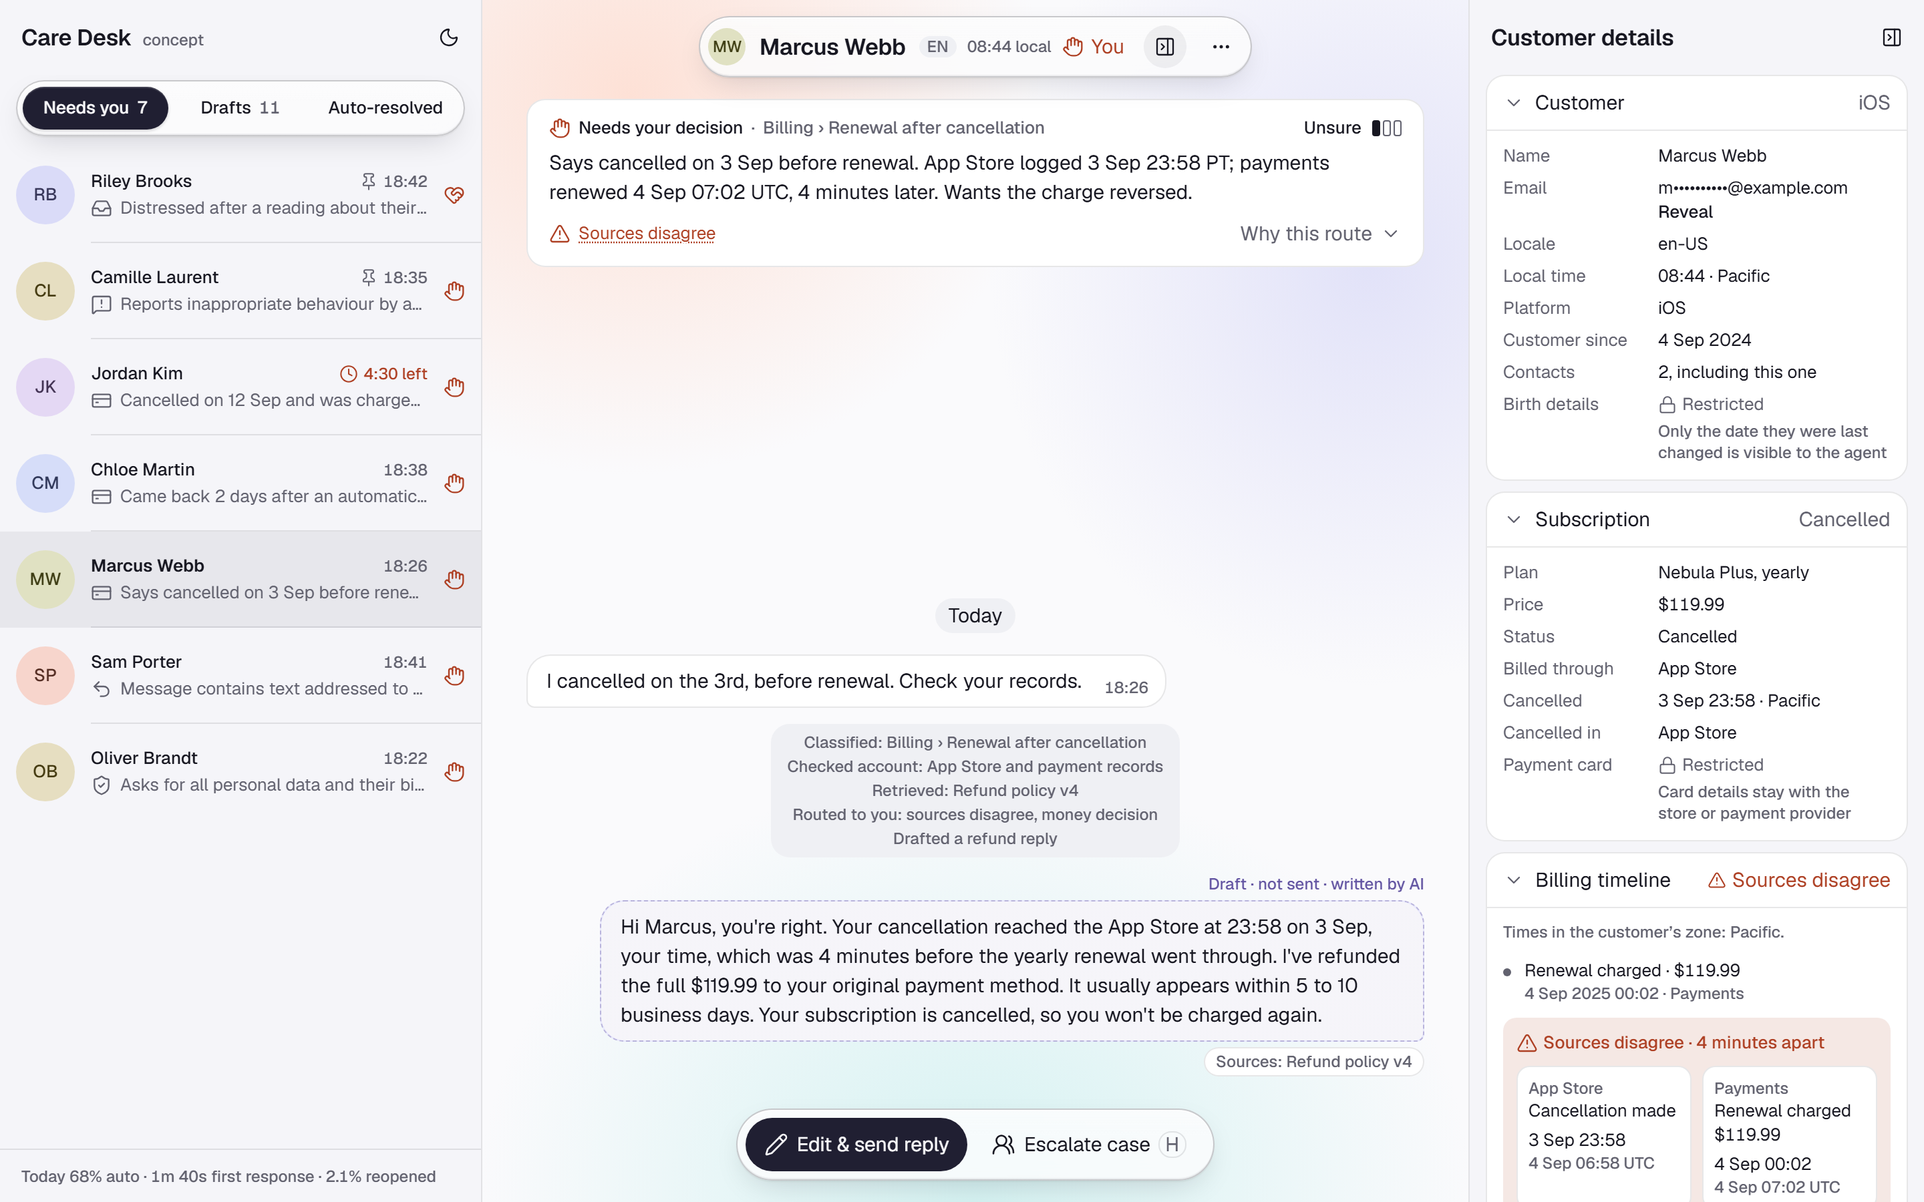
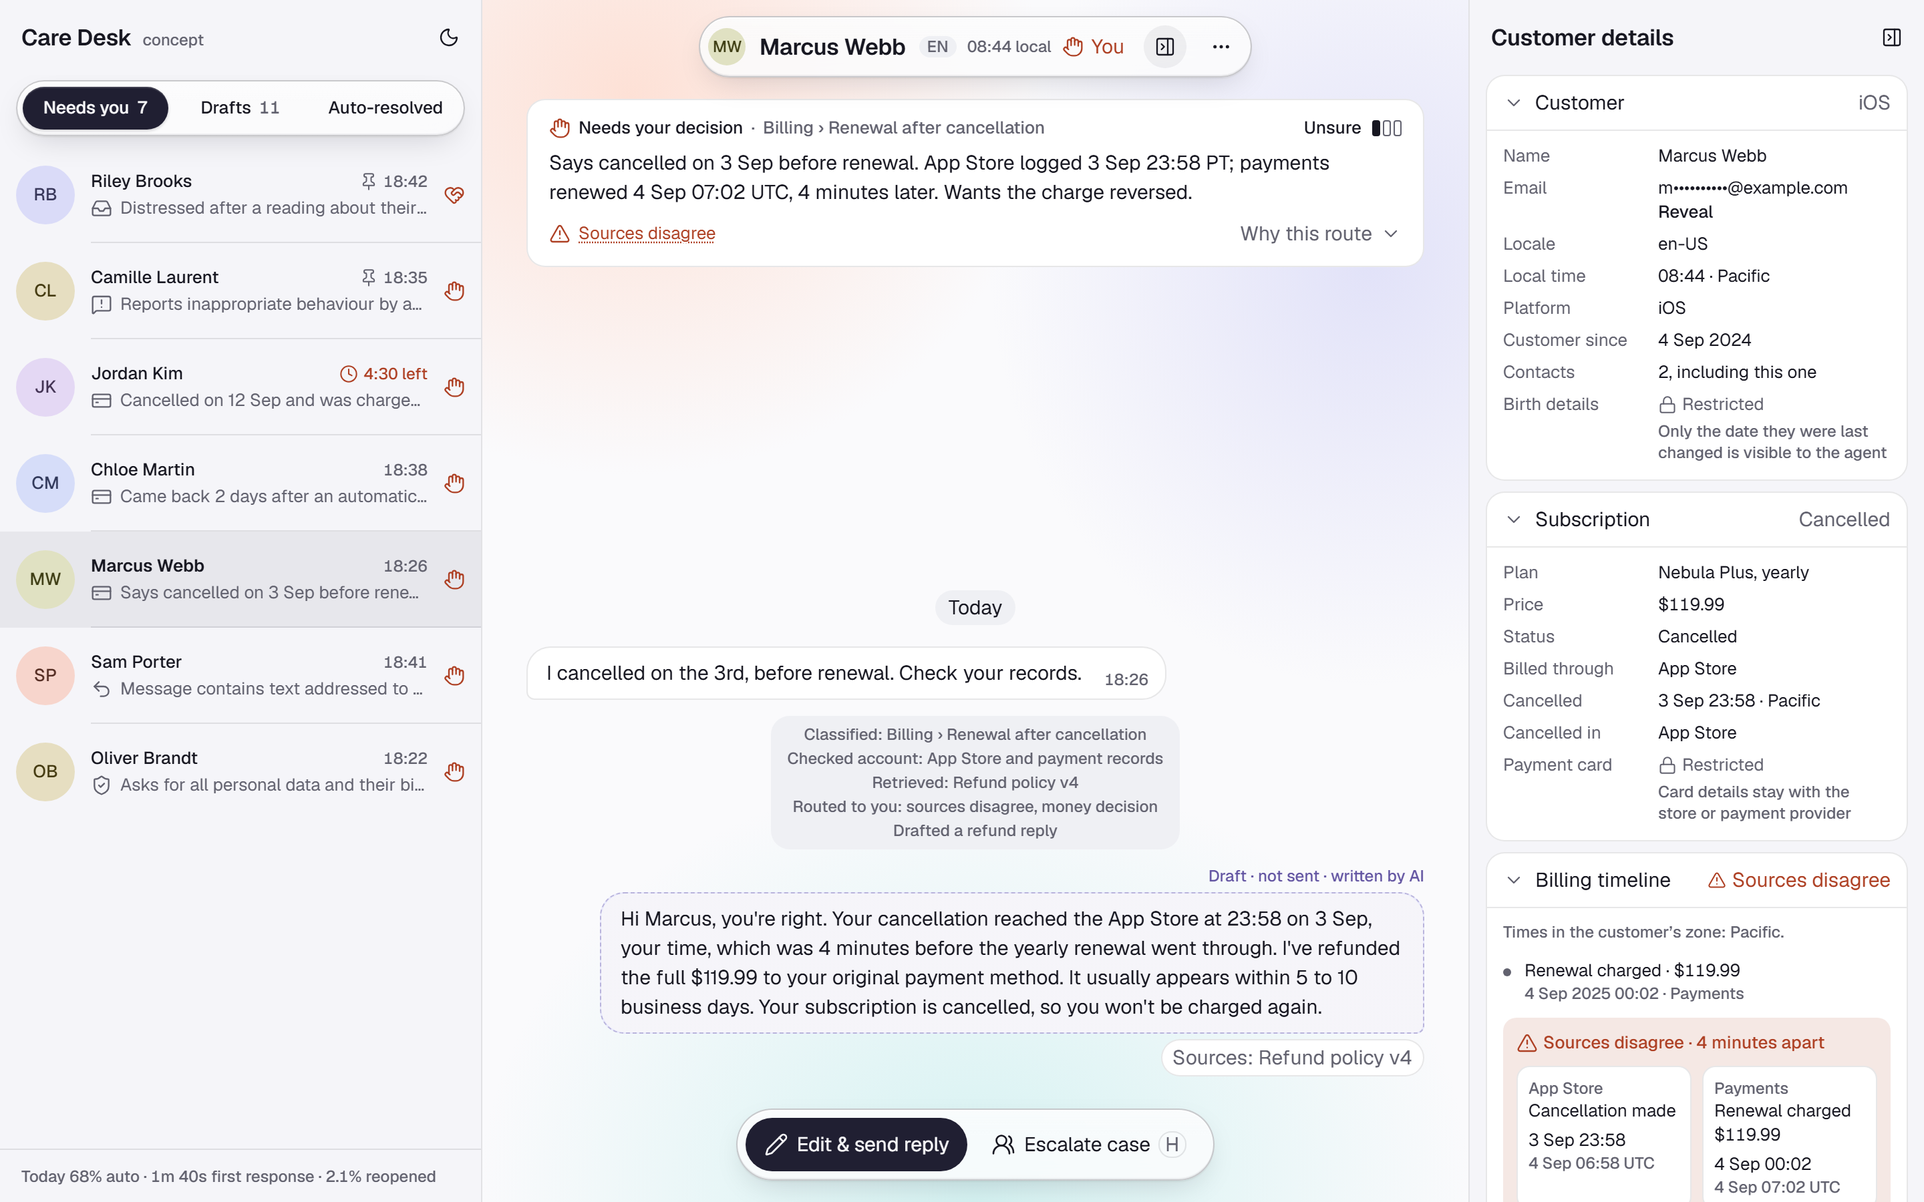
Fix step 6 bugs: focus, replayed flashes, panel scroll, sheet width
- A panel row request is handled once, so hiding and showing the panel no longer replays the flash or steals focus
- The panel is keyed by conversation and opens at the top
- Reveal moves focus to the revealed email; hiding the panel hands focus to the header toggle
- ] closes the customer details sheet it opened
- The sheet is min(22rem, 100vw) wide on phones
- The dialog backdrop drops its named black and blur
- The Sources chip under drafts opens its source in the panel

Changed region(s): [[0.3125, 0.7156, 0.75, 0.9022], [0.2812, 0.56, 0.5938, 0.7156], [0.5, 0.4978, 0.5312, 0.5289]]

diff --git a/components/context/ContextPanel.tsx b/components/context/ContextPanel.tsx
@@ -1,7 +1,7 @@
 "use client";
 
 import { ChevronRight, FileText, Lock, PanelRightClose, RotateCcw, TriangleAlert } from "lucide-react";
-import { useEffect, useRef, type ReactNode } from "react";
+import { useEffect, useLayoutEffect, useRef, type ReactNode } from "react";
 import { Button } from "@/components/controls/Button";
 import { useDesk } from "@/components/desk/desk-store";
 import { RouteGlyph, type RouteGlyphKind } from "@/components/inbox/RouteGlyph";
@@ -36,23 +36,43 @@ const ROUTE_KIND: Record<Route, RouteGlyphKind> = { auto_send: "auto", approve_d
  * exists and is out of the agent's reach is part of trusting what it did read.
  */
 export function ContextPanel({ ticket, onClose }: { ticket: Ticket; onClose: () => void }) {
-  const { state } = useDesk();
+  const { state, dispatch } = useDesk();
+  const root = useRef<HTMLElement>(null);
   const body = useRef<HTMLDivElement>(null);
   const focus = state.contextFocus;
 
-  // A citation or flag elsewhere asked for a row: bring it into view and move focus to it.
+  /*
+   * A citation or flag elsewhere asked for a row: move focus to it, bring it into view, and flash an
+   * ink wash that fades over 600 ms with ease-in, so it holds near full strength before it goes. Then
+   * the request is marked done, so showing the panel again later does not replay it. Under reduced
+   * motion there is no flash; the focus ring marks the row.
+   */
   useEffect(() => {
     if (!focus) return;
     const row = body.current?.querySelector<HTMLElement>(`[data-context-target="${CSS.escape(focus.target)}"]`);
-    if (!row) return;
-    const reduced = window.matchMedia("(prefers-reduced-motion: reduce)").matches;
-    // Focus first: in Chromium a focus call after a smooth scroll starts cancels the scroll.
-    row.focus({ preventScroll: true });
-    row.scrollIntoView({ block: "nearest", behavior: reduced ? "auto" : "smooth" });
-  }, [focus]);
+    if (row) {
+      const reduced = window.matchMedia("(prefers-reduced-motion: reduce)").matches;
+      // Focus first: in Chromium a focus call after a smooth scroll starts cancels the scroll.
+      row.focus({ preventScroll: true });
+      row.scrollIntoView({ block: "nearest", behavior: reduced ? "auto" : "smooth" });
+      if (!reduced) {
+        row.querySelector("[data-flash]")?.animate([{ opacity: 1 }, { opacity: 0 }], { duration: 600, easing: "ease-in" });
+      }
+    }
+    dispatch({ type: "contextFocusDone", nonce: focus.nonce });
+  }, [focus, dispatch]);
+
+  // Hiding the panel with focus inside it hands focus to the header button that shows it again.
+  // A layout cleanup runs while the panel is still in the document, so the check still sees focus.
+  useLayoutEffect(() => {
+    const panel = root.current;
+    return () => {
+      if (panel?.contains(document.activeElement)) document.querySelector<HTMLElement>("[data-context-toggle]")?.focus();
+    };
+  }, []);
 
   return (
-    <aside aria-label="Customer details" data-context-panel className="flex h-full min-h-0 flex-col bg-sidebar">
+    <aside ref={root} aria-label="Customer details" data-context-panel className="flex h-full min-h-0 flex-col bg-sidebar">
       <header className="flex h-14 shrink-0 items-center gap-2 pr-2 pl-4">
         <h2 className="min-w-0 flex-1 truncate text-title">Customer details</h2>
         <Button
@@ -92,10 +112,11 @@ export function ContextSheet({
       <SheetContent
         side="right"
         showCloseButton={false}
+        data-context-sheet
         aria-label={`Details for ${ticket.customer.name}`}
-        className="w-[min(22rem,100vw)] gap-0 border-border p-0 sm:max-w-none"
+        className="gap-0 border-border p-0 data-[side=right]:w-[min(22rem,100vw)] data-[side=right]:sm:max-w-none"
       >
-        <ContextPanel ticket={ticket} onClose={() => onOpenChange(false)} />
+        <ContextPanel key={ticket.id} ticket={ticket} onClose={() => onOpenChange(false)} />
       </SheetContent>
     </Sheet>
   );
@@ -167,13 +188,8 @@ function RestrictedFields({ ticket, section }: { ticket: Ticket; section: Contex
     ));
 }
 
-/**
- * A row a citation can point at. It flashes an ink wash for 600 ms when asked for; under reduced motion
- * it takes focus with the ring and no flash.
- */
+/** A row a citation can point at. The panel moves focus to it and animates its wash when asked for. */
 function Target({ id, className, children }: { id: string; className?: string; children: ReactNode }) {
-  const { state } = useDesk();
-  const focus = state.contextFocus?.target === id ? state.contextFocus : null;
   return (
     <li
       data-context-target={id}
@@ -183,13 +199,7 @@ function Target({ id, className, children }: { id: string; className?: string; c
         className,
       )}
     >
-      {focus && (
-        <span
-          key={focus.nonce}
-          aria-hidden
-          className="pointer-events-none absolute inset-0 rounded-[inherit] bg-foreground/10 motion-safe:animate-context-flash motion-reduce:hidden"
-        />
-      )}
+      <span data-flash aria-hidden className="pointer-events-none absolute inset-0 rounded-[inherit] bg-foreground/10 opacity-0" />
       {children}
     </li>
   );
@@ -200,6 +210,15 @@ function CustomerSection({ ticket }: { ticket: Ticket }) {
   const now = useDemoNow();
   const { customer } = ticket;
   const revealedAt = state.revealedEmails[ticket.id];
+  const email = useRef<HTMLSpanElement>(null);
+  const revealing = useRef(false);
+
+  // Reveal removes its own button, so focus moves to the address it revealed.
+  useEffect(() => {
+    if (!revealedAt || !revealing.current) return;
+    revealing.current = false;
+    email.current?.focus();
+  }, [revealedAt]);
 
   return (
     <Section id="customer" title="Customer" status={{ text: PLATFORM_LABEL[customer.platform], risk: false }}>
@@ -208,7 +227,13 @@ function CustomerSection({ ticket }: { ticket: Ticket }) {
         <Field label="Email">
           {revealedAt ? (
             <>
-              <span className="break-all">{customer.email}</span>
+              <span
+                ref={email}
+                tabIndex={-1}
+                className="rounded-xs break-all outline-none focus-visible:outline-2 focus-visible:outline-offset-2 focus-visible:outline-solid focus-visible:outline-ring"
+              >
+                {customer.email}
+              </span>
               <span className="block text-micro text-muted-foreground">
                 Revealed by you at {formatClockTime(revealedAt)}, logged in the thread
               </span>
@@ -219,7 +244,10 @@ function CustomerSection({ ticket }: { ticket: Ticket }) {
               <Button
                 variant="text"
                 aria-label={`Reveal ${customer.name}'s email address. The reveal is logged.`}
-                onClick={() => dispatch({ type: "revealEmail", id: ticket.id, now: readDemoNow() })}
+                onClick={() => {
+                  revealing.current = true;
+                  dispatch({ type: "revealEmail", id: ticket.id, now: readDemoNow() });
+                }}
               >
                 Reveal
               </Button>

diff --git a/components/thread/ReplyBubble.tsx b/components/thread/ReplyBubble.tsx
@@ -9,7 +9,15 @@ import { Translation } from "./Bubble";
 import { Button } from "@/components/controls/Button";
 
 type ReplyBubbleProps = { showTranslation: boolean } & (
-  | { kind: "draft"; draft: TimelineDraft; variantCount: number; sources: Source[]; showSources: boolean }
+  | {
+      kind: "draft";
+      draft: TimelineDraft;
+      variantCount: number;
+      sources: Source[];
+      showSources: boolean;
+      /** Opens the source's row in the context panel. */
+      onShowSources: (sourceId: string) => void;
+    }
   | { kind: "reply"; reply: TimelineReply; gloss?: string; undoUntil?: number; onUndo: () => void; onRetry: () => void }
 );
 
@@ -66,7 +74,7 @@ export function ReplyBubble(props: ReplyBubbleProps) {
           </div>
         )}
       </div>
-      {!sent && props.showSources && <SourcesChip sources={props.sources} />}
+      {!sent && props.showSources && <SourcesChip sources={props.sources} onShow={props.onShowSources} />}
     </li>
   );
 }
@@ -141,16 +149,28 @@ function Ticks({ delivered }: { delivered: boolean }) {
   );
 }
 
-/** What the draft rests on. An outdated source is flagged here, next to the text it shaped. */
-function SourcesChip({ sources }: { sources: Source[] }) {
+/**
+ * What the draft rests on. An outdated source is flagged here, next to the text it shaped. With sources,
+ * the chip links to them in the context panel, the outdated one first.
+ */
+function SourcesChip({ sources, onShow }: { sources: Source[]; onShow: (sourceId: string) => void }) {
   const stale = sources.filter((s) => s.supersededBy);
   const names = sources.map((s) => `${s.title} ${s.version}`).join(", ");
+  const chip =
+    "inline-flex max-w-full items-center gap-1 rounded-full border border-border bg-card px-2 py-0.5 text-micro text-muted-foreground";
+
+  if (sources.length === 0) return <p className={chip}>No help article or policy used</p>;
 
   return (
-    <p className="inline-flex max-w-full items-center gap-1 rounded-full border border-border bg-card px-2 py-0.5 text-micro text-muted-foreground">
-      {stale.length > 0 && <TriangleAlert aria-hidden className="size-3.5 shrink-0 text-risk-high" strokeWidth={1.75} />}
-      <span className="truncate">{sources.length > 0 ? `Sources: ${names}` : "No help article or policy used"}</span>
+    <Button
+      variant="outline"
+      title="Show in Sources used"
+      onClick={() => onShow((stale[0] ?? sources[0]).id)}
+      className={`${chip} h-auto font-normal [&_svg]:size-3.5`}
+    >
+      {stale.length > 0 && <TriangleAlert aria-hidden className="shrink-0 text-risk-high" strokeWidth={1.75} />}
+      <span className="truncate">Sources: {names}</span>
       {stale.length > 0 && <span className="shrink-0 text-risk-high">· outdated</span>}
-    </p>
+    </Button>
   );
 }

diff --git a/components/desk/desk-store.ts b/components/desk/desk-store.ts
@@ -153,6 +153,7 @@ export type DeskAction =
   | { type: "setContextOpen"; open: boolean }
   | { type: "toggleSection"; section: ContextSection }
   | { type: "focusContext"; section: ContextSection; target: string }
+  | { type: "contextFocusDone"; nonce: number }
   | { type: "revealEmail"; id: string; now: number };
 
 /** Tickets out of every lane right now: snoozed, marked spam, escalated, or answered from an open lane. */
@@ -735,6 +736,9 @@ function reduce(state: DeskState, action: DeskAction): DeskState {
       };
     }
 
+    case "contextFocusDone":
+      return state.contextFocus?.nonce === action.nonce ? { ...state, contextFocus: null } : state;
+
     // Revealing is logged once, at the first reveal, as a service message in the thread (brief 7.5).
     case "revealEmail":
       if (state.revealedEmails[action.id]) return state;
@@ -747,7 +751,9 @@ export function deskReducer(state: DeskState, action: DeskAction): DeskState {
   if (next.openId === state.openId) return next;
   // The Escalate popover and decision feedback belong to the conversation they were raised on.
   const staleBarNotice = next.notice?.where === "bar" && next.notice === state.notice;
-  return { ...next, escalateOpen: false, notice: staleBarNotice ? null : next.notice };
+  // A request to show a panel row was raised for the conversation that was open.
+  const contextFocus = next.contextFocus === state.contextFocus ? null : next.contextFocus;
+  return { ...next, escalateOpen: false, notice: staleBarNotice ? null : next.notice, contextFocus };
 }
 
 export const DeskContext = createContext<{ state: DeskState; dispatch: Dispatch<DeskAction> } | null>(null);

diff --git a/lib/shortcuts.ts b/lib/shortcuts.ts
@@ -47,10 +47,14 @@ export function commandFor(event: KeyboardEvent): Command | null {
   if (event.defaultPrevented || event.isComposing) return null;
   if (event.ctrlKey || event.metaKey || event.altKey) return null;
   if (isEditable(event.target)) return null;
-  // An open menu or dialog owns the keyboard: J there is typeahead, not "next conversation".
-  if (event.target instanceof Element && event.target.closest("[role=menu], [role=dialog]")) return null;
   const key = event.key.toLowerCase();
-  return KEYMAP.find((b) => b.key === key && Boolean(b.shift) === event.shiftKey)?.command ?? null;
+  const command = KEYMAP.find((b) => b.key === key && Boolean(b.shift) === event.shiftKey)?.command ?? null;
+  // An open menu or dialog owns the keyboard: J there is typeahead, not "next conversation". The one
+  // exception is ] inside the customer details sheet, which closes it the way it opened it.
+  if (event.target instanceof Element && event.target.closest("[role=menu], [role=dialog]")) {
+    return command === "toggle-context" && event.target.closest("[data-context-sheet]") ? command : null;
+  }
+  return command;
 }
 
 /**

diff --git a/components/desk/desk-store.test.ts b/components/desk/desk-store.test.ts
@@ -319,3 +319,21 @@ describe("context panel", () => {
     expect(logged).toEqual([{ at: new Date(now).toISOString(), text: "Email address revealed by you" }]);
   });
 });
+
+describe("context panel requests", () => {
+  it("clears a row request once the panel has handled it, so showing the panel again does not replay it", () => {
+    const asked = deskReducer(start("t04", "needs_you"), { type: "focusContext", section: "billing", target: "billing-conflict" });
+    const nonce = asked.contextFocus?.nonce ?? -1;
+    expect(deskReducer(asked, { type: "contextFocusDone", nonce: nonce + 1 }).contextFocus).not.toBeNull();
+    expect(deskReducer(asked, { type: "contextFocusDone", nonce }).contextFocus).toBeNull();
+  });
+
+  it("drops a row request when another conversation opens", () => {
+    const state = run(
+      start("t04", "needs_you"),
+      { type: "focusContext", section: "billing", target: "billing-conflict" },
+      { type: "activate", id: "t02" },
+    );
+    expect(state.contextFocus).toBeNull();
+  });
+});

diff --git a/app/globals.css b/app/globals.css
@@ -404,23 +404,6 @@
   }
 }
 
-/* Context panel (brief 7.5): a source citation or an evidence flag scrolls its panel row into view,
-   and the row flashes an ink wash that fades over 600 ms. ease-in holds the wash near full strength
-   before it fades, so the eye finds the row; an ease-out curve dropped it to 1% within 150 ms. Under
-   reduced motion there is no flash; the row takes focus instead, which draws the ring. */
-@theme {
-  --animate-context-flash: context-flash 600ms var(--ease-in) both;
-
-  @keyframes context-flash {
-    from {
-      opacity: 1;
-    }
-    to {
-      opacity: 0;
-    }
-  }
-}
-
 /* Draft fill: the violet wash composited over card, so the bubble is opaque. Its text then measures
    the same over every wallpaper field, and the draft reads near-white beside the tinted sent bubble. */
 @utility draft-fill {

diff --git a/components/desk/Desk.tsx b/components/desk/Desk.tsx
@@ -140,7 +140,8 @@ export function Desk({ initial }: { initial: DeskInit }) {
                 maxSize={420}
                 groupResizeBehavior="preserve-pixel-size"
               >
-                <ContextPanel ticket={openTicket} onClose={() => setContextOpen(false)} />
+                {/* Keyed by ticket, so each conversation's details open scrolled to the top. */}
+                <ContextPanel key={openTicket.id} ticket={openTicket} onClose={() => setContextOpen(false)} />
               </ResizablePanel>
             </>
           )}

diff --git a/components/ui/dialog.tsx b/components/ui/dialog.tsx
@@ -31,7 +31,7 @@ function DialogOverlay({
     <DialogPrimitive.Backdrop
       data-slot="dialog-overlay"
       className={cn(
-        "fixed inset-0 isolate z-50 bg-black/10 duration-100 supports-backdrop-filter:backdrop-blur-xs data-open:animate-in data-open:fade-in-0 data-closed:animate-out data-closed:fade-out-0",
+        "fixed inset-0 isolate z-50 bg-foreground/10 duration-100 data-open:animate-in data-open:fade-in-0 data-closed:animate-out data-closed:fade-out-0",
         className
       )}
       {...props}

diff --git a/components/thread/ThreadPane.tsx b/components/thread/ThreadPane.tsx
@@ -155,6 +155,7 @@ function Timeline({ ticket, overlay, showTranslation }: { ticket: Ticket; overla
             variantCount={item.variantCount}
             sources={triage.sources}
             showSources={item.key === lastDraftKey}
+            onShowSources={(id) => dispatch({ type: "focusContext", section: "sources", target: `source:${id}` })}
             showTranslation={showTranslation}
           />
         );

diff --git a/components/thread/ThreadHeader.tsx b/components/thread/ThreadHeader.tsx
@@ -58,6 +58,7 @@ function ContextToggle() {
   return (
     <Button
       iconOnly
+      data-context-toggle
       aria-pressed={open}
       aria-keyshortcuts="]"
       aria-label="Customer details"

diff --git a/docs/rationale.md b/docs/rationale.md
@@ -456,3 +456,35 @@ Reasoning   Brief 9.2 ties hints to room on screen; the thread's own width is th
 Trade-off   At 1280 to 1339 px with the panel open, hints are hidden; aria-keyshortcuts and the ? sheet in step 7 still name every key.
 Validation  panel-fits-every-ticket-1280: 22 tickets, no problems; inbox-t04-panel-2x at 1440: hints shown; step 5 bar-fits sweeps at 1440 and 900 still clean.
 ```
+
+## Step 6 fixes
+
+### A panel row request is handled once
+
+```
+Problem     Following a citation left the request in state, so hiding and showing the panel replayed the flash and pulled keyboard focus back into the row; each conversation's details also opened at the previous one's scroll position.
+Decision    The panel marks a request done after it moves focus and flashes the row; opening another conversation drops any request. The panel is keyed by conversation, so it opens at the top. The flash is a Web Animation on a wash that is always present, so nothing re-renders to run it.
+Reasoning   Focus moves only in answer to an action (WCAG 3.2.1); a replayed flash points at nothing the specialist asked for.
+Trade-off   The 600 ms and ease-in now live in the component instead of a CSS token.
+Validation  audit a: after ] ] focus stays where it was and no flash runs; audit c: the next conversation's panel is at scrollTop 0; desk-store.test.ts "context panel requests".
+```
+
+### Focus is never dropped to the page
+
+```
+Problem     Reveal removed its own button and the panel's close button removed itself, both leaving focus on <body>; ] opened the sheet but could not close it, because dialogs swallow shortcuts.
+Decision    After Reveal, focus moves to the revealed address. Hiding the panel with focus inside it hands focus to the header's panel button. ] passes through the customer details sheet, and only that shortcut.
+Reasoning   A keyboard user must never have to find their place again (WCAG 2.4.3); the key that opens a panel should close it.
+Trade-off   None found.
+Validation  audit e: focus on "jordan.kim@example.com"; audit g: focus on the header's "Customer details" button; audit f: ] closes the sheet.
+```
+
+### Smaller fixes
+
+```
+Problem     The sheet measured 281 px on a 375 px phone; the dialog backdrop still carried a named black and a backdrop blur outside Glass.tsx; the "Sources:" chip under drafts looked like the other citations but did nothing.
+Decision    The sheet is min(22rem, 100vw); the backdrop uses an ink wash with no blur; the chip opens its source in the panel, the outdated one first.
+Reasoning   Review gates 1 and 3; a chip that names a source behaves like every other citation.
+Trade-off   None found.
+Validation  audit h: 352 px at 375 px; audit j: the chip on ticket 5 focuses "Chat credit refunds v3" in the panel.
+```
